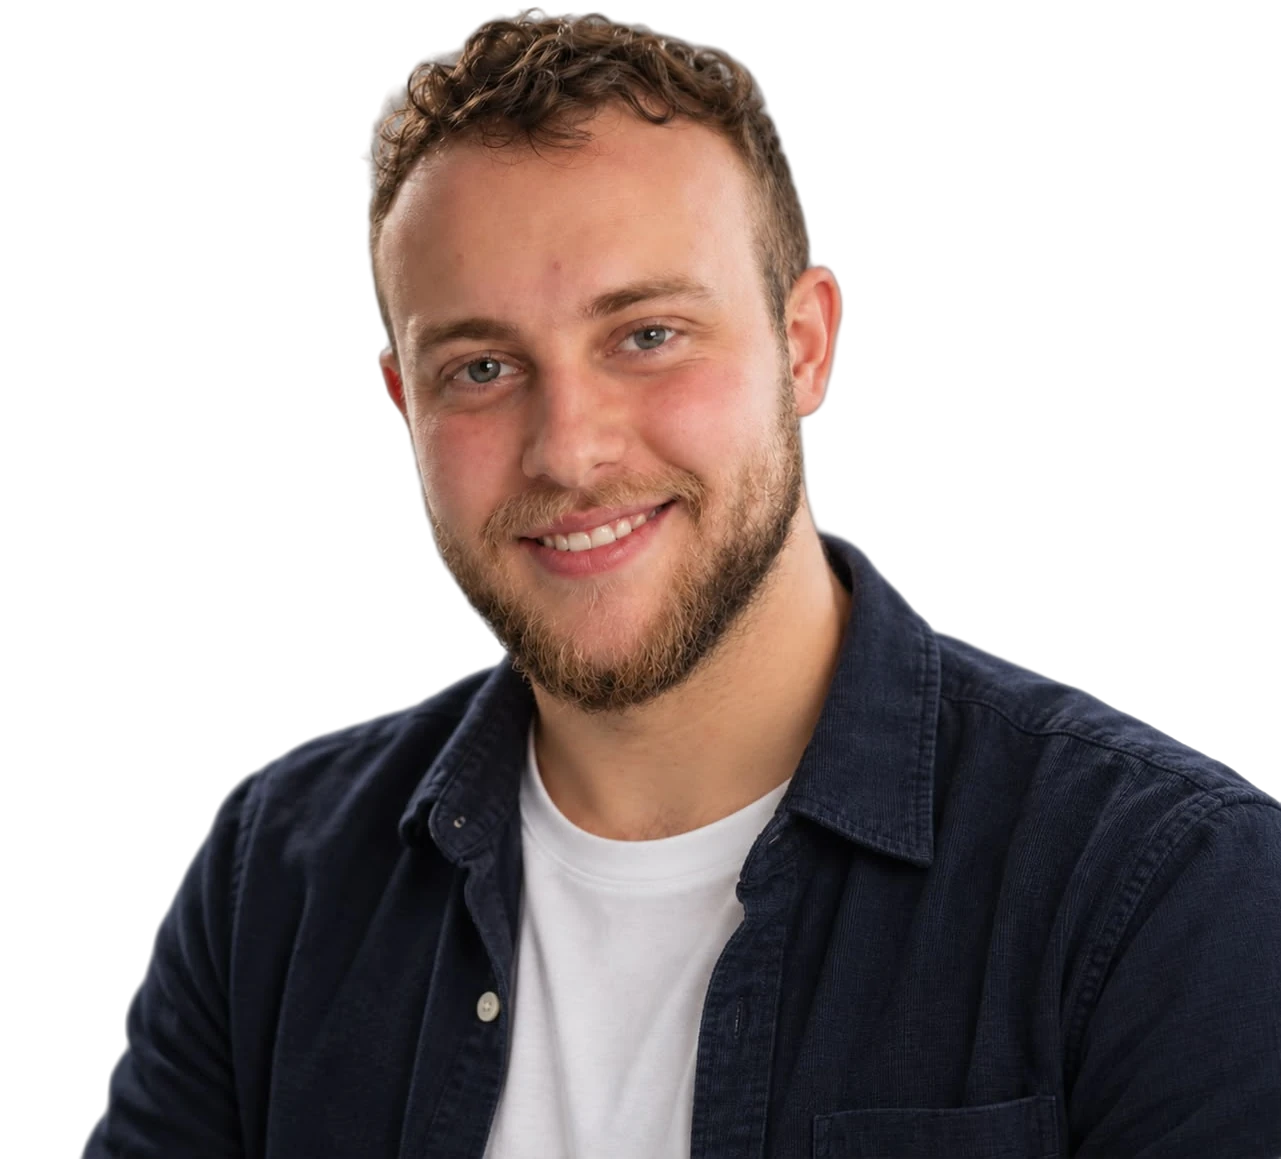
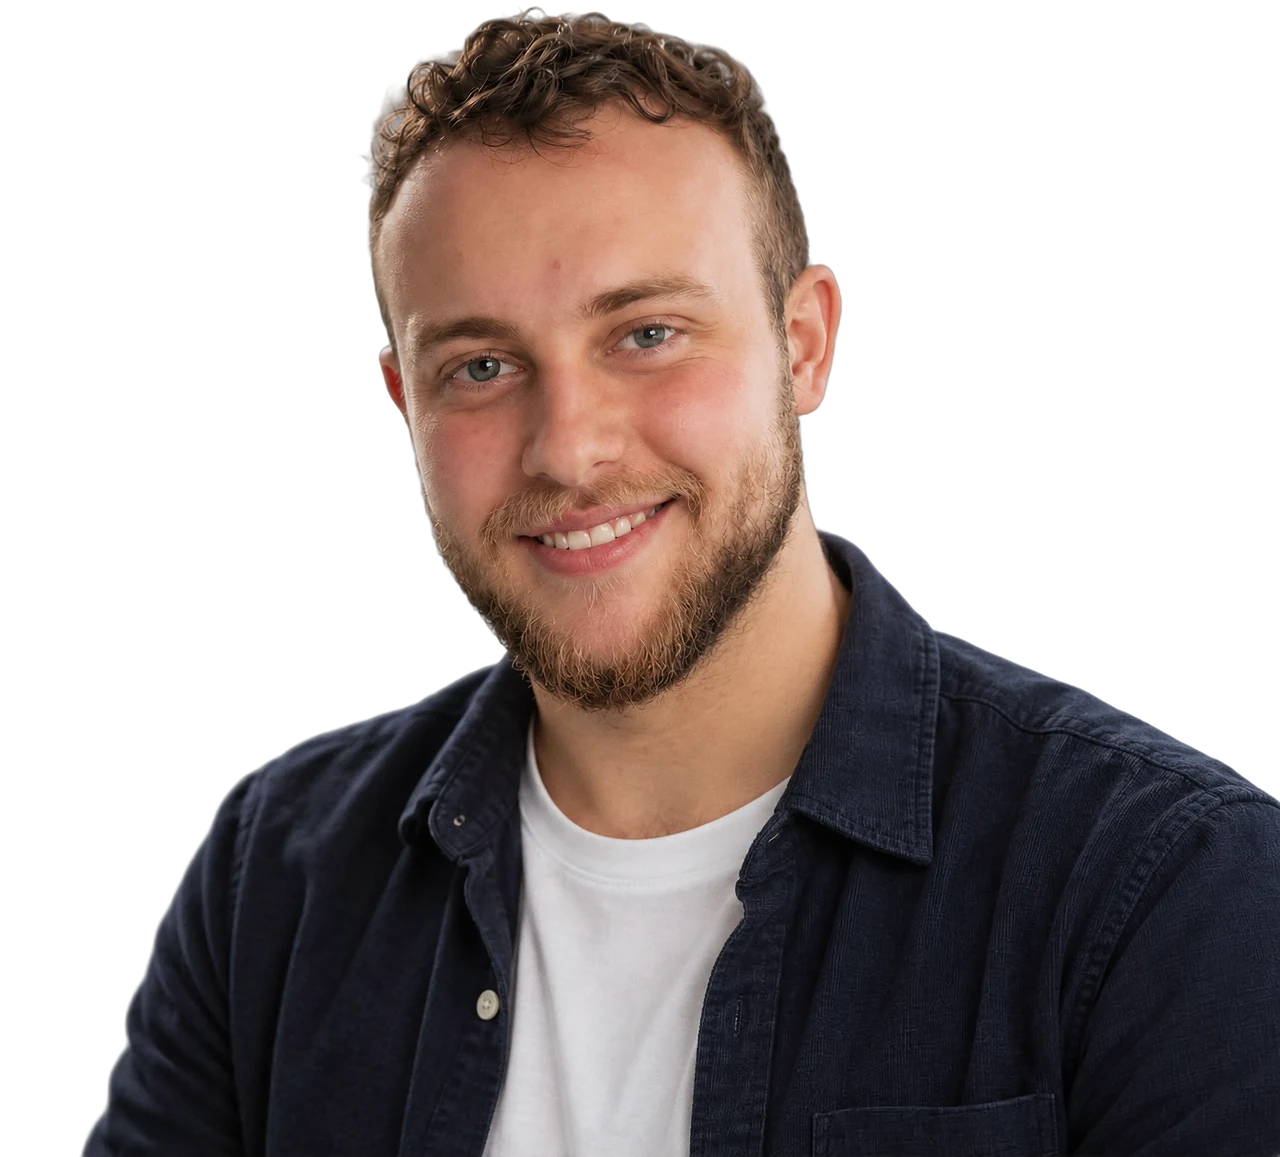
About photo: from a faithful 2x Magnific upscale
The original photo is 1281px wide, so earlier exports had no detail to
spare. It was upscaled 2x with Magnific "Precision photo", the most
faithful mode with no invented detail (180 credits, approved up to 500
by the owner), to 2562×2454. It was then cut out locally again (rembg),
with the same edge-colour clean-up as before.

The three sizes keep their names (640 / 960 / 1280px wide; 37 / 82 /
134 KB), now downsampled from the upscale, so they are sharper:
eyelashes, beard and skin texture.

Claude-Session: https://claude.ai/code/session_01Vcv47RwiWieiPdtn9JK2Jk

Changed region(s): [[0.3125, 0.0311, 0.4062, 0.1245], [0.375, 0.0, 0.4375, 0.0622], [0.5, 0.5601, 0.5312, 0.5912]]

diff --git a/index.html b/index.html
@@ -768,7 +768,7 @@ body.menu-open .wa-fab, body.menu-open .cur { display: none; }
       <figure class="portrait" id="portrait">
         <div class="p-bg" aria-hidden="true"></div>
         <div class="bars p-bars" aria-hidden="true"><i></i><i></i><i></i><i></i><i></i><i></i><i></i></div>
-        <img src="img/gal-960.webp" srcset="img/gal-640.webp 640w, img/gal-960.webp 960w, img/gal-1280.webp 1281w" sizes="(max-width: 860px) 470px, 560px" alt="Gal Frank" width="1281" height="1159" loading="lazy" decoding="async">
+        <img src="img/gal-960.webp" srcset="img/gal-640.webp 640w, img/gal-960.webp 960w, img/gal-1280.webp 1280w" sizes="(max-width: 860px) 470px, 560px" alt="Gal Frank" width="1280" height="1157" loading="lazy" decoding="async">
         <figcaption class="p-hud" aria-hidden="true"><span class="rec">CAM A</span><span>GAL FRANK</span></figcaption>
       </figure>
       <div class="about-txt">

diff --git a/TODO.md b/TODO.md
@@ -78,7 +78,7 @@ Baseline (Lighthouse on a local server): performance 73 mobile / 90 desktop, acc
 - Tests: `node --test` (repo root) runs `tests/worker.test.mjs`.
 
 ### B. Speed and layout jump
-- **Move the images out of index.html.** Done for the portrait (2026-10-06): the new photo, cut out of its studio background locally, is `img/gal-640.webp` / `gal-960.webp` / `gal-1280.webp` (35 / 72 / 109 KB, `srcset`; the 1280 one is the source photo's full resolution). For more detail than the source has, upscale the original first (Magnific "Precision photo" 2x was the plan; its upload host `ak-data.magnific.com` must be allowed in the cloud environment's network settings). Still to do: the `const LOGOS = {…}` block is ~135 KB: 9 single-colour PNG masks plus an Isuzu SVG.
+- **Move the images out of index.html.** Done for the portrait (2026-10-06): the new photo, cut out of its studio background locally, is `img/gal-640.webp` / `gal-960.webp` / `gal-1280.webp` (37 / 82 / 134 KB, `srcset`). They come from a 2x Magnific "Precision photo" upscale of the original (most faithful mode, 180 credits, 2026-10-07; 2562×2454), cut out locally with rembg. Magnific needs `*.magnific.com` (upload) and `*.cdnpk.net` (results) in the cloud environment's allowed domains. Still to do: the `const LOGOS = {…}` block is ~135 KB: 9 single-colour PNG masks plus an Isuzu SVG.
   - Logos as lossless WebP measured 95 KB → 54 KB.
   - CSS `mask-image` needs same-origin URLs: fine on Cloudflare, but it fails when opening the file locally via file://.
 - **Self-host the fonts.** The Google Fonts CSS blocks first paint (~1.5 s on slow mobile). Only Hebrew and Latin subsets are needed:
